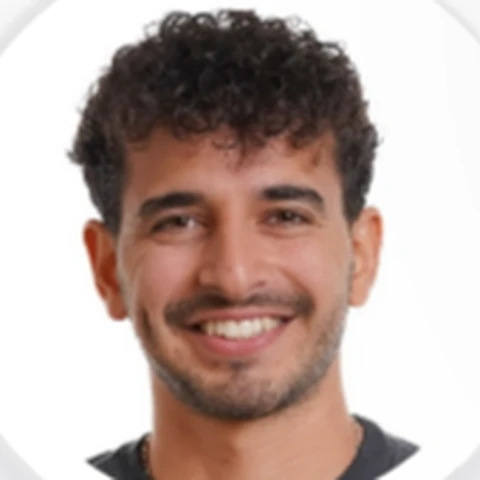
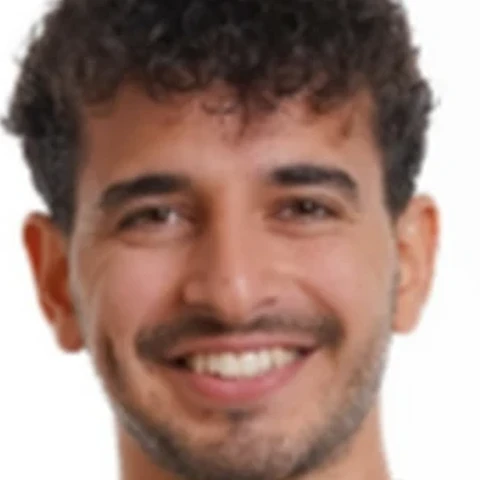
Design/content polish pass: problem stats, solution copy, algorithm chart, team
Remove the app-screenshot section and its redundant metric block, restyle the
-35% stat card to high-contrast, rewrite the solution copy to read naturally,
redesign the behavior-weight breakdown to match the poster's bar chart, fix
baked-in crop artifacts on team photos, trim team roles to titles only, and
correct nav labels/order/names to match the actual page sections.

diff --git a/index.html b/index.html
@@ -78,8 +78,12 @@
                 </a>
 
                 <div class="nav-links">
-                    <a href="#product">האפליקציה</a>
-                    <a href="#solution">איך זה עובד</a>
+                    <a href="#problem">הבעיה</a>
+                    <a href="#challenge">האתגר</a>
+                    <a href="#solution">הפתרון</a>
+                    <a href="#validation">ניסוי</a>
+                    <a href="#team">מי אנחנו</a>
+                    <a href="#tech">האלגוריתם</a>
                     <a href="#faq">שאלות נפוצות</a>
                 </div>
 
@@ -103,7 +107,7 @@
 
                         <div class="hero-actions">
                             <a href="#join" class="btn btn-primary">הצטרפו לעדכונים</a>
-                            <a href="#solution" class="btn btn-ghost">איך זה עובד</a>
+                            <a href="#tech" class="btn btn-ghost">איך זה עובד</a>
                         </div>
                     </div>
 
@@ -173,9 +177,9 @@
                         <span class="eyebrow">הפתרון</span>
                         <h2 class="headline">הרעיון פשוט: נוהגים בטוח, מקבלים תגמול.</h2>
                         <p>
-                            אפליקציה שמשפרת הרגלי נהיגה וגורמת לנהגים לרצות לנהוג טוב יותר. היא משתמשת בחיישנים
-                            שכבר נמצאים בטלפון, מזהה את אופן הנהיגה, מעניקה ציון, ולפי הציון הנהג מקבל נקודות
-                            שאותן אפשר לממש כהטבות והנחות בבתי עסק שונים.
+                            Carma לומדת איך אתם נוהגים ישירות מהחיישנים שכבר יש לכם בכיס, בלי חומרה נוספת.
+                            כל נסיעה מקבלת ציון ברור, וככל שהציון גבוה יותר, כך צוברים יותר נקודות שמומרות
+                            להטבות אמיתיות. פשוט לנהוג בטוח, ולראות את זה משתלם.
                         </p>
                     </div>
 
@@ -185,53 +189,6 @@
                             <button type="button" class="video-play-btn" id="demo-video-play" aria-label="הפעילו את סרטון ההדגמה">
                                 <svg width="28" height="28" viewBox="0 0 24 24" fill="currentColor" aria-hidden="true"><path d="M8 5v14l11-7z"/></svg>
                             </button>
-                        </div>
-                    </div>
-                </div>
-            </section>
-
-            <!-- PRODUCT: DRIVE -> UNDERSTAND -> COMPETE -> EARN -->
-            <section class="product" id="product">
-                <div class="container">
-                    <div class="section-head">
-                        <h2 class="headline">Carma הופכת כל נסיעה למודעות, שיפור ותגמול</h2>
-                    </div>
-
-                    <ol class="steps">
-                        <li class="step">
-                            <div class="step-shot"><img src="/shots/drive-he.webp" alt="מסך הבית: תחילת נסיעה וסיכום נהיגה" loading="lazy"></div>
-                            <span class="step-label">נוהגים</span>
-                            <p>הנסיעה נרשמת אוטומטית ברקע. אין כפתור לזכור.</p>
-                        </li>
-                        <li class="step">
-                            <div class="step-shot"><img src="/shots/understand-he.webp" alt="מסך סיכום נסיעה עם ציון 0 עד 100" loading="lazy"></div>
-                            <span class="step-label">מבינים</span>
-                            <p>ציון אחד לכל נסיעה, ובדיוק אילו התנהגויות הזיזו אותו.</p>
-                        </li>
-                        <li class="step">
-                            <div class="step-shot"><img src="/shots/compete-he.webp" alt="מסך טבלת מובילים מול חברים ועיר" loading="lazy"></div>
-                            <span class="step-label">מתחרים</span>
-                            <p>רואים איך מדורגים מול חברים ומול העיר.</p>
-                        </li>
-                        <li class="step">
-                            <div class="step-shot"><img src="/shots/earn-he.webp" alt="מסך חנות ההטבות עם יתרת נקודות" loading="lazy"></div>
-                            <span class="step-label">מרוויחים</span>
-                            <p>ממירים נקודות למגוון קטגוריות הטבות.</p>
-                        </li>
-                    </ol>
-
-                    <div class="metric-strip">
-                        <div class="metric">
-                            <span class="metric-num">0–100</span>
-                            <span class="metric-cap">טווח ציון הנסיעה</span>
-                        </div>
-                        <div class="metric">
-                            <span class="metric-num">5</span>
-                            <span class="metric-cap">התנהגויות נהיגה נמדדות</span>
-                        </div>
-                        <div class="metric">
-                            <span class="metric-num">תקן עולמי</span>
-                            <span class="metric-cap">לפי תקן הטלמטריה המוביל בעולם</span>
                         </div>
                     </div>
                 </div>
@@ -280,28 +237,24 @@
 
                     <div class="team-grid">
                         <article class="team-card">
-                            <img src="/team/dan.webp" alt="דן אופרי" class="team-avatar" loading="lazy" width="120" height="120">
-                            <span class="team-name">דן אופרי</span>
+                            <img src="/team/dan.webp" alt="דן עופרי" class="team-avatar" loading="lazy" width="120" height="120">
+                            <span class="team-name">דן עופרי</span>
                             <span class="team-role">CPO</span>
-                            <p>נוסחת הציון, מפת הדרכים, מנגנוני אנטי-רמאות ואבטחת האפליקציה.</p>
                         </article>
                         <article class="team-card">
-                            <img src="/team/naveh.webp" alt="נווה צביג" class="team-avatar" loading="lazy" width="120" height="120">
-                            <span class="team-name">נווה צביג</span>
+                            <img src="/team/naveh.webp" alt="נווה צוויג" class="team-avatar" loading="lazy" width="120" height="120">
+                            <span class="team-name">נווה צוויג</span>
                             <span class="team-role">CTO</span>
-                            <p>מסד הנתונים, התשתיות, ה-CI/CD ושלמות המערכת כולה.</p>
                         </article>
                         <article class="team-card">
-                            <img src="/team/shaun.webp" alt="שון פייבר" class="team-avatar" loading="lazy" width="120" height="120">
-                            <span class="team-name">שון פייבר</span>
+                            <img src="/team/shaun.webp" alt="שון פבר" class="team-avatar" loading="lazy" width="120" height="120">
+                            <span class="team-name">שון פבר</span>
                             <span class="team-role">CEO</span>
-                            <p>נקודות הקצה העסקיות של המוצר והאינטגרציות מול צד שלישי.</p>
                         </article>
                         <article class="team-card">
                             <img src="/team/may.webp" alt="מאי חג'בי" class="team-avatar" loading="lazy" width="120" height="120">
                             <span class="team-name">מאי חג'בי</span>
                             <span class="team-role">Mobile & Frontend Lead</span>
-                            <p>מסכי האפליקציה, ה-UI וה-Driving SDK שאוסף את נתוני החיישנים.</p>
                         </article>
                     </div>
                 </div>
@@ -315,30 +268,36 @@
                         <h2 class="headline">איך זה עובד מאחורי הקלעים</h2>
                     </div>
 
-                    <div class="callouts">
-                        <article class="callout">
-                            <h3>שני גלאים, תוצאה אחת</h3>
-                            <p>כל אירוע נבדק פעמיים — גם בטלפון וגם בשרת מנתוני ה-GPS — כדי שהציון שלכם יהיה מדויק ואמין תמיד, גם אם משהו בטלפון מפספס.</p>
-                        </article>
-                        <article class="callout">
-                            <h3>קצב, לא סכום</h3>
-                            <p>כל מדידה מנורמלת ל-100 ק״מ או לשעת נהיגה, כדי שנסיעה ארוכה לא תיענש רק על היותה ארוכה.</p>
-                        </article>
-                        <article class="callout">
-                            <h3>טלמטריה חתומה</h3>
-                            <p>רק נתונים חתומים נכנסים לחישוב הציון. נתונים לא חתומים נשמרים לאבחון בלבד ולעולם לא משפיעים על התגמול.</p>
-                        </article>
-                    </div>
-
                     <div class="weights">
                         <span class="weights-label">משקל ההתנהגויות בציון</span>
-                        <div class="weights-bar" role="img" aria-label="פיזור משקלים: הסחת דעת 30 אחוז, מהירות 25 אחוז, בלימות חדות 20 אחוז, האצה אגרסיבית 15 אחוז, סיבובים חדים 10 אחוז">
-                            <span style="flex:30" class="w1">הסחת דעת 30%</span>
-                            <span style="flex:25" class="w2">מהירות 25%</span>
-                            <span style="flex:20" class="w3">בלימה חדה 20%</span>
-                            <span style="flex:15" class="w4">האצה 15%</span>
-                            <span style="flex:10" class="w5">סיבוב 10%</span>
-                        </div>
+                        <p class="weights-sub">100 נקודות, מחולקות בין חמש התנהגויות נהיגה</p>
+                        <ul class="weights-list" role="img" aria-label="פיזור משקלים: הסחת דעת 30 אחוז, מהירות 25 אחוז, בלימות חדות 20 אחוז, האצה אגרסיבית 15 אחוז, סיבובים חדים 10 אחוז">
+                            <li class="weight-row">
+                                <span class="weight-name">הסחת דעת</span>
+                                <span class="weight-pct">30%</span>
+                                <span class="weight-track"><span class="weight-fill" style="width:30%"></span></span>
+                            </li>
+                            <li class="weight-row">
+                                <span class="weight-name">מהירות</span>
+                                <span class="weight-pct">25%</span>
+                                <span class="weight-track"><span class="weight-fill" style="width:25%"></span></span>
+                            </li>
+                            <li class="weight-row">
+                                <span class="weight-name">בלימה חדה</span>
+                                <span class="weight-pct">20%</span>
+                                <span class="weight-track"><span class="weight-fill" style="width:20%"></span></span>
+                            </li>
+                            <li class="weight-row">
+                                <span class="weight-name">האצה אגרסיבית</span>
+                                <span class="weight-pct">15%</span>
+                                <span class="weight-track"><span class="weight-fill" style="width:15%"></span></span>
+                            </li>
+                            <li class="weight-row">
+                                <span class="weight-name">סיבוב חד</span>
+                                <span class="weight-pct">10%</span>
+                                <span class="weight-track"><span class="weight-fill" style="width:10%"></span></span>
+                            </li>
+                        </ul>
                     </div>
                 </div>
             </section>

diff --git a/src/style.css b/src/style.css
@@ -214,9 +214,6 @@ body {
 
 .question-card p { margin: 0; color: var(--muted); font-size: 1.05rem; }
 
-/* Product steps */
-.product { padding: 4rem 0; }
-
 .section-head { text-align: center; margin-bottom: 2.5rem; }
 .section-head .headline { font-size: clamp(1.7rem, 3vw, 2.4rem); }
 
@@ -257,8 +254,14 @@ body {
 .stat-card p { margin: 0.6rem 0 1rem; color: var(--dark); font-size: 1.02rem; line-height: 1.5; }
 .stat-source { display: block; font-size: 0.78rem; color: var(--muted); }
 
-.stat-card-accent { background: #EEEDFB; border-color: rgba(79, 70, 229, 0.25); }
-.stat-card-accent .stat-num { color: var(--brand-700); }
+.stat-card-accent {
+    background: linear-gradient(150deg, var(--brand-700) 0%, #312E81 100%);
+    border-color: transparent;
+    box-shadow: 0 20px 45px -18px rgba(67, 56, 202, 0.55);
+}
+.stat-card-accent .stat-num { color: #fff; }
+.stat-card-accent p { color: #EEEDFB; }
+.stat-card-accent .stat-source { color: #C7D2FE; }
 
 /* Solution */
 .solution { padding: 4rem 0; border-top: 1px solid var(--line); background: rgba(255,255,255,0.6); }
@@ -273,7 +276,7 @@ body {
 @media (min-width: 1024px) { .solution-grid { grid-template-columns: 1fr 1fr; } }
 
 .solution-copy .headline { font-size: clamp(1.7rem, 3vw, 2.3rem); margin: 0.6rem 0 1.1rem; }
-.solution-copy p { margin: 0; color: var(--muted); font-size: 1.05rem; line-height: 1.65; max-width: 32rem; }
+.solution-copy p { margin: 0; color: var(--muted); font-size: 1.15rem; line-height: 1.7; font-weight: 400; max-width: 32rem; }
 
 .video-frame {
     position: relative;
@@ -351,41 +354,12 @@ body {
 
 .team-name { display: block; font-weight: 800; font-size: 1.05rem; }
 .team-role { display: block; margin-top: 0.15rem; font-size: 0.85rem; font-weight: 700; color: var(--brand-600); }
-.team-card p { margin: 0.75rem 0 0; color: var(--muted); font-size: 0.9rem; line-height: 1.5; }
-
-.steps {
-    list-style: none;
-    margin: 0 0 3rem;
-    padding: 0;
-    display: grid;
-    gap: 1.5rem;
-    grid-template-columns: 1fr;
-}
-
-@media (min-width: 900px) { .steps { grid-template-columns: repeat(4, 1fr); } }
-
-.step { text-align: center; }
-
-.step-shot {
-    border-radius: 1.25rem;
-    overflow: hidden;
-    border: 1px solid var(--line);
-    box-shadow: var(--shadow-soft);
-    background: #fff;
-    margin-bottom: 1rem;
-}
-
-.step-shot { aspect-ratio: 640 / 1372; display: flex; align-items: center; }
-.step-shot img { display: block; width: 100%; height: 100%; object-fit: contain; }
-
-.step-label { display: block; font-weight: 800; font-size: 1.1rem; margin-bottom: 0.35rem; }
-.step p { margin: 0; color: var(--muted); font-size: 0.95rem; line-height: 1.5; }
 
 .metric-strip {
     display: grid;
-    gap: 1rem;
+    gap: 1.75rem 1rem;
     grid-template-columns: 1fr;
-    background: var(--dark);
+    background: linear-gradient(160deg, #1E1B4B 0%, var(--dark) 100%);
     color: #fff;
     border-radius: 1.5rem;
     padding: 2rem;
@@ -393,58 +367,60 @@ body {
 
 @media (min-width: 768px) { .metric-strip { grid-template-columns: repeat(3, 1fr); } }
 
-.metric { text-align: center; }
-.metric-num { display: block; font-family: "Heebo", sans-serif; font-weight: 800; font-size: 1.8rem; color: #A5B4FC; }
+.metric { text-align: center; position: relative; }
+
+@media (min-width: 768px) {
+    .metric-strip.validation-grid .metric:not(:last-child)::after {
+        content: "";
+        position: absolute;
+        inset-inline-end: -0.5rem;
+        top: 0.15rem;
+        bottom: 0.15rem;
+        width: 1px;
+        background: rgba(255, 255, 255, 0.14);
+    }
+}
+
+.metric-num { display: block; font-family: "Heebo", sans-serif; font-weight: 800; font-size: 1.8rem; color: #fff; }
 .metric-cap { display: block; margin-top: 0.4rem; font-size: 0.9rem; color: #cbd5e1; }
 
 /* Tech section */
 .tech { padding: 4rem 0; background: rgba(255,255,255,0.6); border-top: 1px solid var(--line); }
 
-.callouts {
-    display: grid;
-    gap: 1.25rem;
-    grid-template-columns: 1fr;
-    margin-bottom: 2.5rem;
-}
-
-@media (min-width: 900px) { .callouts { grid-template-columns: repeat(3, 1fr); } }
-
-.callout {
+.weights {
+    max-width: 34rem;
+    margin: 0 auto;
     background: #fff;
     border: 1px solid var(--line);
     border-radius: 1.25rem;
-    padding: 1.5rem;
+    padding: 2rem 1.75rem;
+    box-shadow: var(--shadow-soft);
 }
 
-.callout h3 { margin: 0 0 0.6rem; font-family: "Heebo", sans-serif; }
-.callout p { margin: 0; color: var(--muted); line-height: 1.55; font-size: 0.95rem; }
+.weights-label { display: block; font-weight: 800; font-size: 1.15rem; }
+.weights-sub { margin: 0.3rem 0 1.5rem; color: var(--muted); font-size: 0.9rem; }
 
-.weights { margin-bottom: 2.5rem; }
-.weights-label { display: block; font-weight: 700; margin-bottom: 0.75rem; }
+.weights-list { list-style: none; margin: 0; padding: 0; display: flex; flex-direction: column; gap: 1.1rem; }
 
-.weights-bar {
-    display: flex;
-    border-radius: 0.75rem;
+.weight-row { display: flex; flex-wrap: wrap; align-items: baseline; column-gap: 0.75rem; row-gap: 0.4rem; }
+
+.weight-name { font-weight: 700; font-size: 0.95rem; }
+.weight-pct { margin-inline-start: auto; font-weight: 800; font-size: 1rem; color: var(--brand-600); }
+
+.weight-track {
+    flex-basis: 100%;
+    display: block;
+    height: 0.6rem;
+    border-radius: 999px;
+    background: #EEEDFB;
     overflow: hidden;
-    height: 3rem;
-    font-size: 0.75rem;
-    font-weight: 700;
-    color: #fff;
 }
 
-.weights-bar span { display: flex; align-items: center; justify-content: center; padding-inline: 0.35rem; text-align: center; }
-.w1 { background: var(--brand-700); }
-.w2 { background: var(--brand-600); }
-.w3 { background: var(--brand-500); color: #0f172a; }
-.w4 { background: #818CF8; color: #0f172a; }
-.w5 { background: #A5B4FC; color: #1e293b; }
-
-@media (max-width: 640px) {
-    .weights-bar {
-        flex-direction: column;
-        height: auto;
-    }
-    .weights-bar span { flex: none !important; padding: 0.6rem; font-size: 0.85rem; }
+.weight-fill {
+    display: block;
+    height: 100%;
+    border-radius: 999px;
+    background: linear-gradient(90deg, var(--brand-700), var(--brand-500));
 }
 
 /* FAQ */
